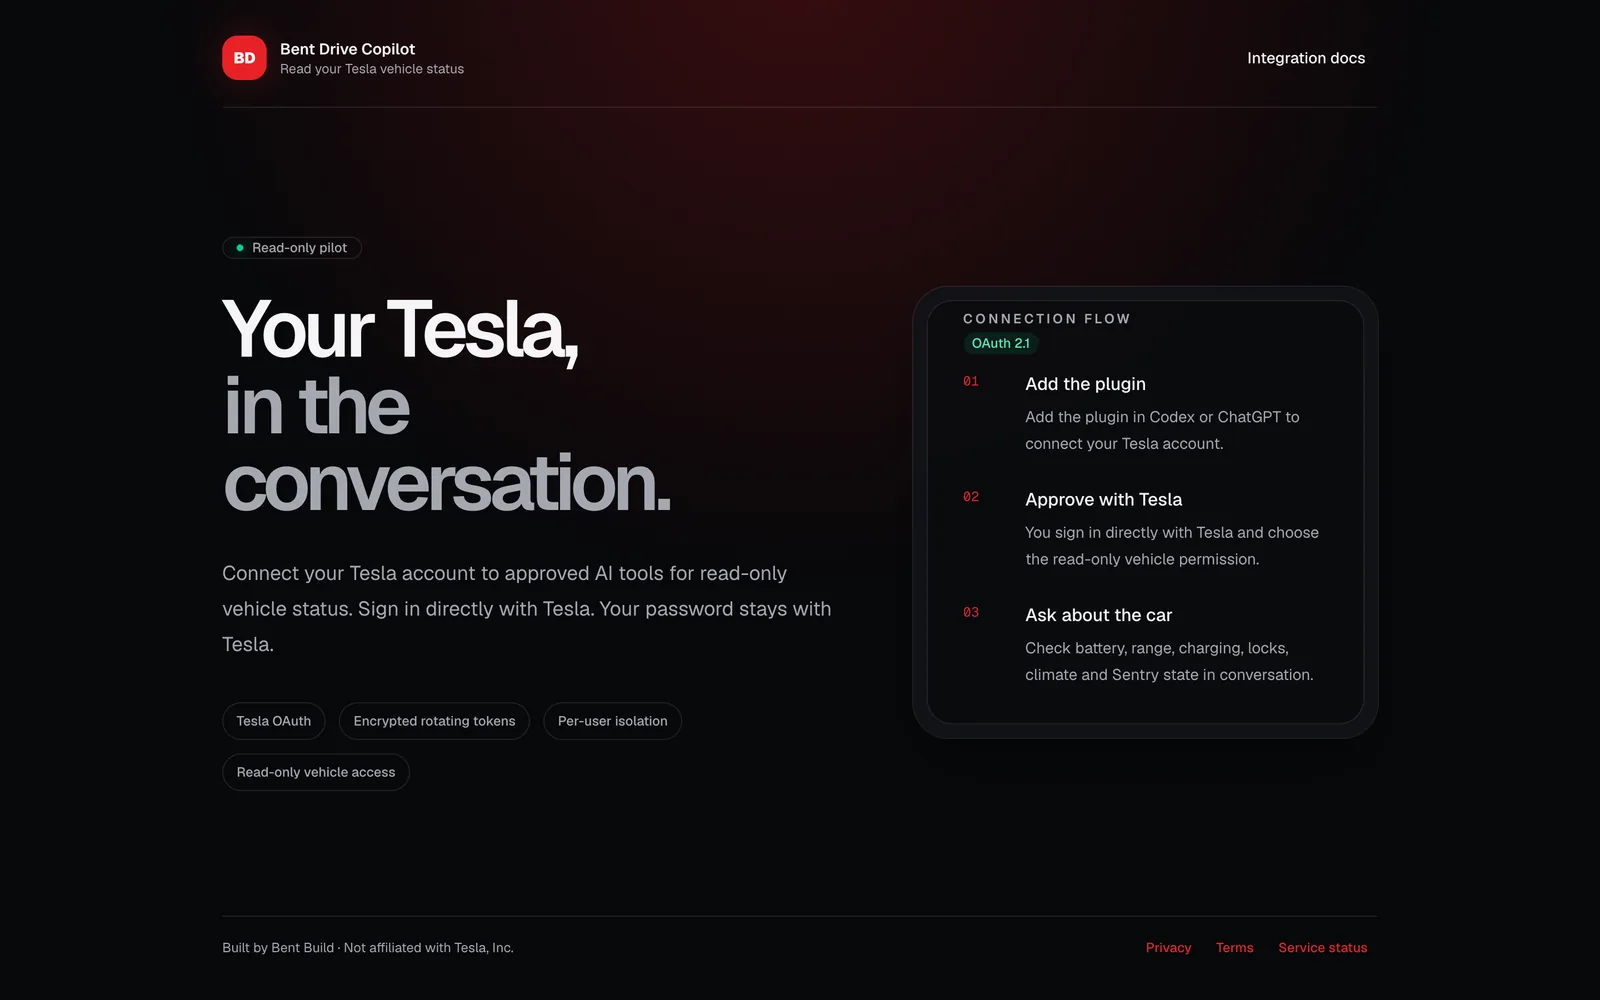
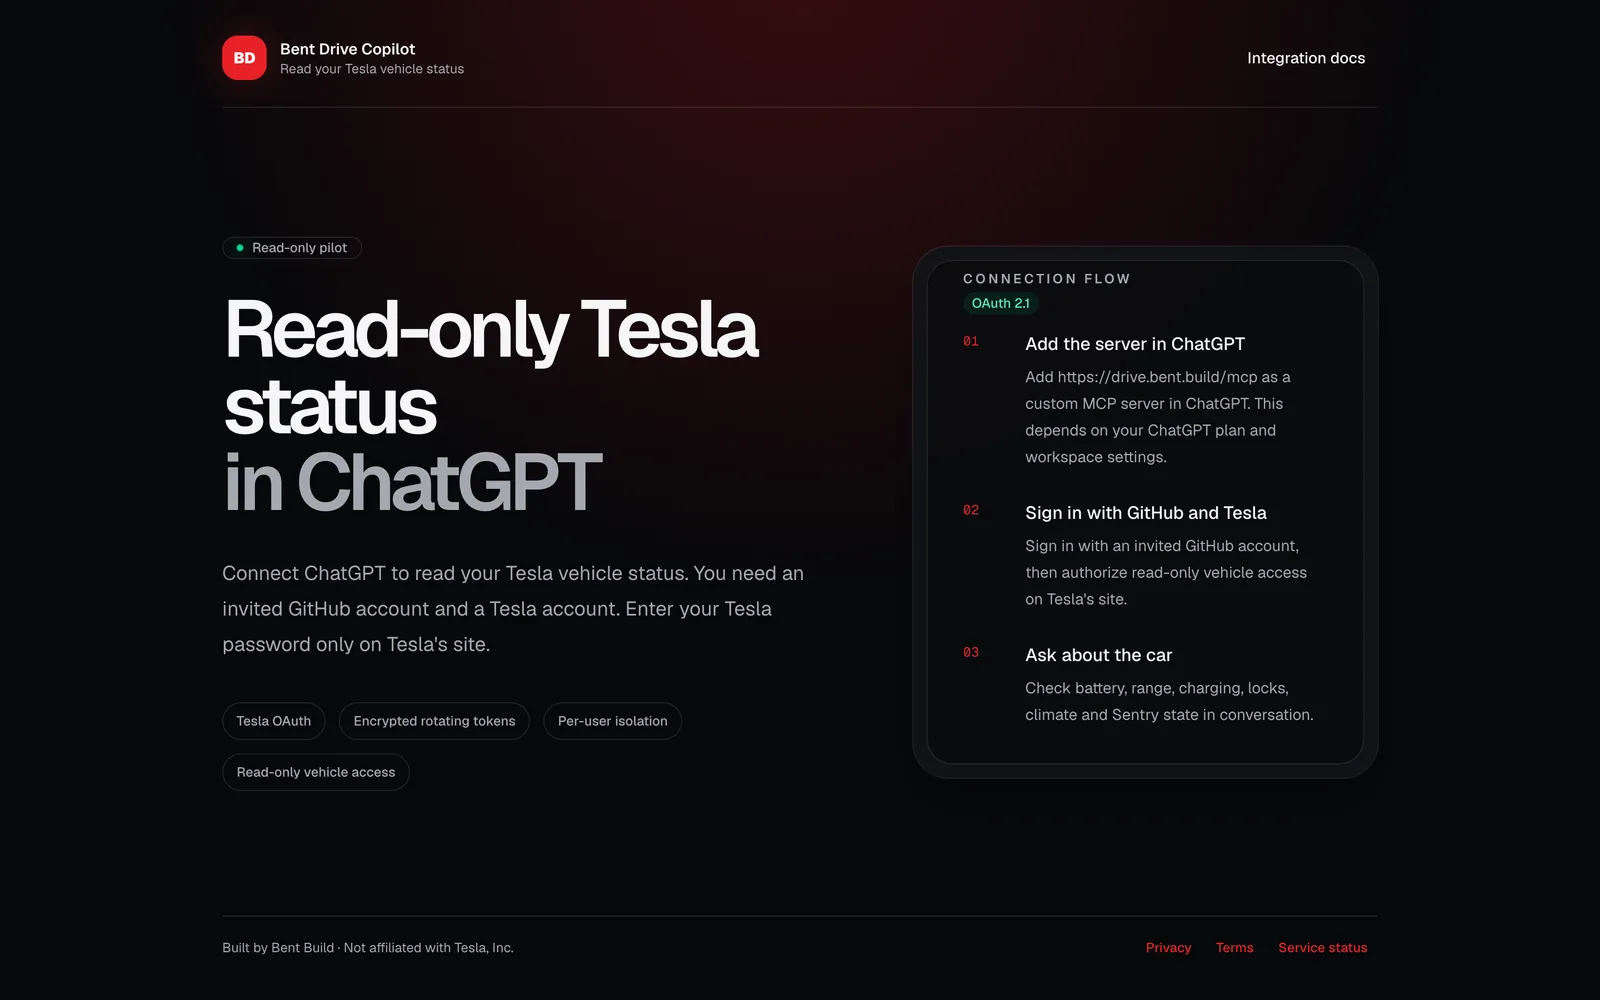
fix(repo): clarify public copy across subdomain apps (#57)
* fix(repo): clarify public copy across subdomain apps

* fix(repo): describe Drive clients and MP4 export accurately

* chore(codeql): refresh source pin for public copy changes

* fix(drive): describe ChatGPT as the supported client

* fix(toolbar): keep the sign-in page within short phone screens

---------

diff --git a/products/drive/apps/web/src/app/page.tsx b/products/drive/apps/web/src/app/page.tsx
@@ -14,14 +14,15 @@ import { Separator } from "@/components/ui/separator";
 const steps = [
   {
     number: "01",
-    title: "Add the plugin",
+    title: "Add the server in ChatGPT",
     description:
-      "Add the plugin in Codex or ChatGPT to connect your Tesla account.",
+      "Add https://drive.bent.build/mcp as a custom MCP server in ChatGPT. This depends on your ChatGPT plan and workspace settings.",
   },
   {
     number: "02",
-    title: "Approve with Tesla",
-    description: "You sign in directly with Tesla and choose the read-only vehicle permission.",
+    title: "Sign in with GitHub and Tesla",
+    description:
+      "Sign in with an invited GitHub account, then authorize read-only vehicle access on Tesla's site.",
   },
   {
     number: "03",
@@ -66,12 +67,13 @@ export default function Home() {
               Read-only pilot
             </Badge>
             <h1 className="max-w-3xl text-5xl leading-[0.96] font-semibold tracking-[-0.065em] sm:text-7xl">
-              Your Tesla,
-              <span className="block text-muted-foreground">in the conversation.</span>
+              Read-only Tesla status
+              <span className="block text-muted-foreground">in ChatGPT</span>
             </h1>
             <p className="mt-8 max-w-xl text-lg leading-8 text-muted-foreground">
-              Connect your Tesla account to approved AI tools for read-only vehicle status.
-              Sign in directly with Tesla. Your password stays with Tesla.
+              Connect ChatGPT to read your Tesla vehicle status. You need an
+              invited GitHub account and a Tesla account. Enter your Tesla
+              password only on Tesla&apos;s site.
             </p>
             <div className="mt-9 flex flex-wrap gap-3">
               {securityFeatures.map((label) => (

diff --git a/apps/trackmap/e2e/editor.spec.ts b/apps/trackmap/e2e/editor.spec.ts
@@ -397,7 +397,7 @@ test("exports an H.264 Story MP4 and can use that video as a local background", 
   test.slow();
   await page.goto("/");
   const first = page.waitForEvent("download");
-  await page.getByRole("button", { name: "Export Story video" }).click();
+  await page.getByRole("button", { name: "Export MP4 video", exact: true }).click();
   const firstDownload = await first;
   await firstDownload.saveAs(info.outputPath("story.mp4"));
   const path = await firstDownload.path();
@@ -484,7 +484,7 @@ test("exports an H.264 Story MP4 and can use that video as a local background", 
     ]);
   }
   const second = downloadOrError();
-  await page.getByRole("button", { name: "Export Story video" }).click();
+  await page.getByRole("button", { name: "Export MP4 video", exact: true }).click();
   const secondDownload = await second;
   await secondDownload.saveAs(info.outputPath("composite.mp4"));
   const secondPath = await secondDownload.path();
@@ -532,7 +532,7 @@ test("exports an H.264 Story MP4 and can use that video as a local background", 
   const frames = gifFrames(await readFile(gifPath));
   expect(frames).toHaveLength(72);
   expect(frames.every((frame) => !frame.transparent)).toBe(true);
-  await page.getByRole("button", { name: "Export Story video" }).click();
+  await page.getByRole("button", { name: "Export MP4 video", exact: true }).click();
   await page.getByRole("button", { name: "Cancel export" }).click();
   await expect(page.getByRole("button", { name: "Save PNG" })).toBeEnabled();
 });

diff --git a/products/drive/apps/web/src/app/docs/page.tsx b/products/drive/apps/web/src/app/docs/page.tsx
@@ -16,8 +16,10 @@ export default function DocsPage() {
       </Badge>
       <h1 className="mt-4 text-4xl font-semibold tracking-[-0.04em]">Connection guide</h1>
       <p className="mt-4 max-w-2xl leading-7 text-muted-foreground">
-        Connect an approved MCP client to read your Tesla vehicle information.
-        Sign in directly with Tesla. Your password stays with Tesla.
+        Connect ChatGPT to read your Tesla vehicle status. You need an invited
+        GitHub account and a Tesla account. Adding a custom MCP server in
+        ChatGPT depends on your plan and workspace settings; a workspace admin
+        may need to allow it.
       </p>
       <Separator className="my-10" />
 
@@ -43,8 +45,9 @@ export default function DocsPage() {
           </CardHeader>
           <CardContent className="leading-7 text-muted-foreground">
             <p>
-              The service uses OAuth 2.1 authorization-code flow with PKCE and dynamic client
-              registration. Sign in with Tesla to authorize vehicle access. Bent Drive Copilot issues
+              Sign in with an invited GitHub account, then authorize read-only vehicle
+              access on Tesla&apos;s site. The service uses OAuth 2.1 authorization-code
+              flow with PKCE and dynamic client registration. Bent Drive Copilot issues
               separate, short-lived tokens to the MCP client.
             </p>
           </CardContent>

diff --git a/products/shop/apps/web/src/components/mobile-only-gate.test.tsx b/products/shop/apps/web/src/components/mobile-only-gate.test.tsx
@@ -110,7 +110,10 @@ describe("MobileOnlyGate", () => {
       );
     });
 
-    expect(container.textContent).toBe("");
+    expect(container.querySelector("figcaption")?.textContent).toBe(
+      "Scan the QR code with your phone to continue creating your design.",
+    );
+    expect(container.textContent).not.toContain("Camera landing");
     expect(container.querySelector("canvas")).not.toBeNull();
     act(() => {
       root.unmount();
@@ -163,7 +166,9 @@ describe("MobileOnlyGate", () => {
 
     expect(mounted).toHaveBeenCalledOnce();
     expect(unmounted).toHaveBeenCalledOnce();
-    expect(container.textContent).toBe("");
+    expect(container.querySelector("figcaption")?.textContent).toBe(
+      "Scan the QR code with your phone to continue creating your design.",
+    );
     expect(container.textContent).not.toContain("Mobile editor");
     act(() => {
       root.unmount();
@@ -240,7 +245,9 @@ describe("MobileOnlyGate", () => {
         },
       );
       expect(container.textContent).not.toContain("Useful no-JS landing");
-      expect(container.textContent).toBe("");
+      expect(container.querySelector("figcaption")?.textContent).toBe(
+        "Scan the QR code with your phone to continue creating your design.",
+      );
     } finally {
       act(() => {
         root?.unmount();

diff --git a/apps/trackmap/src/App.tsx b/apps/trackmap/src/App.tsx
@@ -263,7 +263,7 @@ export default function App() {
         download(blob, `trackmap-${snapshot.format}.${kind}`);
         setNotice(
           kind === "mp4"
-            ? "MP4 ready. Save the video to Photos, then select it when creating your Instagram Story."
+            ? "MP4 ready. Check your downloads to save it."
             : `${kind.toUpperCase()} ready. Check your downloads to save it. GIF and PNG overlays can be layered in an editor.`,
         );
       }
@@ -290,6 +290,10 @@ export default function App() {
       </header>
       <main>
         <h1>Trackmap</h1>
+        <p>
+          Turn a GPX, TCX, FIT or GeoJSON file into a rotating 3D route card.
+          Trackmap processes files in your browser.
+        </p>
         <div className="workspace">
           <section className="preview-panel" aria-label="Activity card preview">
             <div className="panel-heading">
@@ -694,7 +698,7 @@ export default function App() {
                   disabled={!exportable || loading || mediaLoading}
                   onClick={() => void save("mp4")}
                 >
-                  Export Story video · MP4
+                  Export MP4 video
                 </Button>
                 <div className="two-columns">
                   <Button

diff --git a/apps/fitness/src/components/app.tsx b/apps/fitness/src/components/app.tsx
@@ -35,11 +35,7 @@ function Welcome() {
       <div className="wordmark">
         bent<span>/</span>fitness
       </div>
-      <h1>Plan the week. Log every set.</h1>
-      <p>
-        Your strength sessions, runs, food and bodyweight in one private
-        account.
-      </p>
+      <h1>Track strength sessions, runs, food and bodyweight.</h1>
       <ul className="landing-jobs">
         <li>
           <strong>Week</strong>
@@ -47,7 +43,8 @@ function Welcome() {
         </li>
         <li>
           <strong>Exercises</strong>
-          Setup, form cues, pictures and a tutorial for every movement.
+          Setup, form cues, illustrations and a YouTube tutorial for each
+          included dumbbell exercise.
         </li>
         <li>
           <strong>Food</strong>
@@ -59,9 +56,7 @@ function Welcome() {
         </li>
       </ul>
       <SignInButton mode="modal">
-        <Button appearance="primary">
-          Sign in to your plan <span aria-hidden>→</span>
-        </Button>
+        <Button appearance="primary">Sign in</Button>
       </SignInButton>
       <p className="muted">
         Invited accounts only. Your training and nutrition stay private.

diff --git a/apps/jp/src/components/NewsletterSignup.tsx b/apps/jp/src/components/NewsletterSignup.tsx
@@ -6,6 +6,7 @@ import { Field, FieldLabel } from './ui/field';
 
 export function NewsletterSignup({ instance }: { instance: 'top' | 'footer' }) {
   const emailId = `newsletter-${instance}-email`;
+  const descriptionId = `newsletter-${instance}-description`;
   const websiteId = `newsletter-${instance}-website`;
   const [status, setStatus] = useState('');
   const [busy, setBusy] = useState(false);
@@ -38,6 +39,9 @@ export function NewsletterSignup({ instance }: { instance: 'top' | 'footer' }) {
       className="w-full"
     >
       <div>
+        <p id={descriptionId} className="mb-2 text-xs">
+          email updates for new posts
+        </p>
         <form
           data-feedback-redact
           data-feedback-private
@@ -55,6 +59,7 @@ export function NewsletterSignup({ instance }: { instance: 'top' | 'footer' }) {
               name="email"
               type="email"
               autoComplete="email"
+              aria-describedby={descriptionId}
               maxLength={254}
               required
               disabled={!ready || busy}

diff --git a/apps/www/lib/apps.ts b/apps/www/lib/apps.ts
@@ -191,12 +191,12 @@ export const apps: readonly ShowcaseApp[] = [
   {
     id: "drive",
     name: "Drive",
-    tagline: "Read-only Tesla status for ChatGPT and Codex.",
+    tagline: "Read-only Tesla status in ChatGPT.",
     category: "Utilities",
     domain: "drive.bent.build",
     access: "Invited GitHub accounts, plus a Tesla account",
     description:
-      "An MCP server that lets ChatGPT or Codex read a Tesla's battery, range, charging, locks, climate and Sentry state. Sign in with an invited GitHub account, then approve read-only access with Tesla. The website has setup instructions.",
+      "An MCP server that lets ChatGPT read a Tesla's battery, range, charging, locks, climate and Sentry state. Sign in with an invited GitHub account, then approve read-only access with Tesla. The website has setup instructions.",
     highlights: [
       "Lists vehicles and reads their status",
       "Requests Tesla's read-only vehicle scope",

diff --git a/products/shop/apps/web/src/lib/social-card.ts b/products/shop/apps/web/src/lib/social-card.ts
@@ -21,6 +21,7 @@ export interface SocialCardSettings {
 export const SOCIAL_CARD_WIDTH = 1_200;
 export const SOCIAL_CARD_HEIGHT = 630;
 const SOCIAL_CARD_VERSION = "v4";
+const SOCIAL_CARD_TITLE = "bent.shop | Custom T-shirts and totes";
 export const SOCIAL_CARD_DESCRIPTION =
   "Make your own shirt or tote from a photo.";
 export const SOCIAL_CARD_SETTINGS: SocialCardSettings = {
@@ -136,7 +137,7 @@ export function createSocialCardMetadata({
       images: [image],
       locale: "en_AU",
       siteName: "bent.shop",
-      title: "make your own",
+      title: SOCIAL_CARD_TITLE,
       type: "website",
       url: sharePath,
     },
@@ -145,7 +146,7 @@ export function createSocialCardMetadata({
       card: "summary_large_image",
       description: SOCIAL_CARD_DESCRIPTION,
       images: [{ alt, url: imagePath }],
-      title: "make your own",
+      title: SOCIAL_CARD_TITLE,
     },
   };
 }

diff --git a/products/shop/apps/web/src/components/mobile-only-gate.tsx b/products/shop/apps/web/src/components/mobile-only-gate.tsx
@@ -86,12 +86,17 @@ function DesktopQrHandoff() {
 
   return (
     <main className="relative z-10 hidden flex-1 place-items-center bg-background p-8 text-primary lg:grid">
-      <canvas
-        ref={qrCanvasRef}
-        className="block h-auto w-[min(68vw,256px)] border border-primary"
-        role="img"
-        aria-label="QR code to continue creating this design on a phone"
-      />
+      <figure className="grid justify-items-center gap-4 text-center">
+        <canvas
+          ref={qrCanvasRef}
+          className="block h-auto w-[min(68vw,256px)] border border-primary"
+          role="img"
+          aria-label="QR code to continue creating this design on a phone"
+        />
+        <figcaption className="max-w-[29rem] text-sm leading-[1.6]">
+          Scan the QR code with your phone to continue creating your design.
+        </figcaption>
+      </figure>
     </main>
   );
 }

diff --git a/apps/jp/tests/browser/newsletter.spec.ts b/apps/jp/tests/browser/newsletter.spec.ts
@@ -348,11 +348,11 @@ for (const path of ['/', '/gallery', '/newsletter/privacy']) {
         await expect(subscribe).toBeEnabled();
         await expect(signup.getByRole('heading')).toHaveCount(0);
         await expect(
-          signup.getByText(
-            'get new journal entries by email. unsubscribe anytime.',
-            { exact: true },
-          ),
-        ).toHaveCount(0);
+          signup.getByText('email updates for new posts', { exact: true }),
+        ).toBeVisible();
+        await expect(email).toHaveAccessibleDescription(
+          'email updates for new posts',
+        );
         await expect(signup.getByRole('status')).toBeEmpty();
         const label = signup.locator('label.sr-only');
         await expect(label).toHaveText('email');

diff --git a/apps/toolbar/src/browser/dashboard/session.tsx b/apps/toolbar/src/browser/dashboard/session.tsx
@@ -79,6 +79,10 @@ function Auth({
             <h2 className="text-[28px] font-medium tracking-[-.8px]">
               {signup ? 'Create account' : 'Sign in'}
             </h2>
+            <p className="mt-2 text-sm text-muted-foreground [@media(max-height:699px)]:hidden">
+              Manage feedback projects, install the toolbar and connect a local coding agent through
+              MCP.
+            </p>
           </div>
           {github ? (
             <Button
